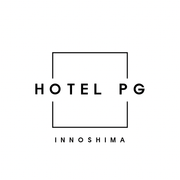
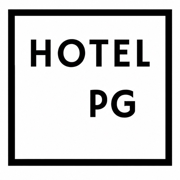
Replace Hotel PG branding assets

diff --git a/app/_assets/brand-logo-data.ts b/app/_assets/brand-logo-data.ts
@@ -1,0 +1,1 @@
[1 lines of base64/hex data omitted]

diff --git a/components/Header.tsx b/components/Header.tsx
@@ -6,6 +6,7 @@ import { usePathname } from 'next/navigation';
 import { Menu, X } from 'lucide-react';
 import { motion, AnimatePresence } from 'framer-motion';
 import LanguageSwitcher from './LanguageSwitcher';
+import BrandLogo from './BrandLogo';
 
 /** デスクトップの横並びナビに出す主要項目（厳選）。残りはメニューに収納。
  *  page: true は別ページへのリンク（/blog など）、それ以外はトップ内のセクション(#xxx)。 */
@@ -90,11 +91,10 @@ const Header: React.FC = () => {
                 handleNavClick('#home');
               }
             }}
-            className={`font-display text-[13px] sm:text-sm tracking-[0.25em] transition-colors shrink-0 ${
-              showTransparent ? 'text-white/95' : 'text-[#1a1a1a]'
-            }`}
+            className="shrink-0"
+            aria-label="HOTEL PG トップページ"
           >
-            HOTEL PG
+            <BrandLogo className="h-8 w-8 sm:h-9 sm:w-9" sizes="36px" priority />
           </Link>
 
           {/* デスクトップ: 横並びナビ */}
@@ -178,7 +178,7 @@ const Header: React.FC = () => {
             transition={{ duration: 0.2 }}
           >
             <div className="h-12 sm:h-14 flex items-center justify-between px-4 sm:px-6 max-w-6xl mx-auto border-b border-black/5">
-              <span className="font-display text-[13px] tracking-[0.25em] text-[#1a1a1a]">HOTEL PG</span>
+              <BrandLogo className="h-8 w-8" sizes="32px" />
               <button type="button" onClick={() => setIsMenuOpen(false)} aria-label="閉じる">
                 <X size={20} strokeWidth={1.5} className="text-[#1a1a1a]" />
               </button>

diff --git a/components/NewsImage.tsx b/components/NewsImage.tsx
@@ -1,6 +1,7 @@
 'use client';
 
 import { useState } from 'react';
+import BrandLogo from './BrandLogo';
 
 export default function NewsImage({ src, alt = '' }: { src?: string; alt?: string; sizes?: string }) {
   const [failedSrc, setFailedSrc] = useState<string | null>(null);
@@ -8,7 +9,7 @@ export default function NewsImage({ src, alt = '' }: { src?: string; alt?: strin
     <div className="relative aspect-[4/3] w-full overflow-hidden bg-white">
       {src && failedSrc !== src ? <img src={src} alt={alt} loading="lazy" onError={() => setFailedSrc(src)} className="h-full w-full object-cover transition-transform duration-300 motion-safe:group-hover:scale-[1.03]" /> : (
         <div className="flex h-full flex-col items-center justify-center border border-divider/50 text-textMain">
-          <span className="font-display text-3xl tracking-[0.25em]">HOTEL PG</span>
+          <BrandLogo className="h-24 w-24 sm:h-28 sm:w-28" sizes="112px" />
           <span className="mt-3 font-body text-[10px] tracking-[0.3em] text-textLight">INNOSHIMA, HIROSHIMA</span>
         </div>
       )}

diff --git a/app/opengraph-image.tsx b/app/opengraph-image.tsx
@@ -1,4 +1,5 @@
 import { ImageResponse } from 'next/og';
+import { BRAND_LOGO_DATA_URI } from './_assets/brand-logo-data';
 
 export const alt = 'HOTEL PG Innoshima — Shimanami Kaido';
 export const size = { width: 1200, height: 630 };
@@ -23,20 +24,17 @@ export default function OpenGraphImage() {
           color: '#ebe6dc',
         }}
       >
-        <div
-          style={{
-            fontSize: 86,
-            fontWeight: 600,
-            letterSpacing: '0.12em',
-            textTransform: 'uppercase' as const,
-          }}
-        >
-          HOTEL PG
-        </div>
+        <img
+          src={BRAND_LOGO_DATA_URI}
+          alt="HOTEL PG"
+          width={220}
+          height={220}
+          style={{ objectFit: 'contain' }}
+        />
         <div
           style={{
             fontSize: 34,
-            marginTop: 20,
+            marginTop: 24,
             letterSpacing: '0.42em',
             textTransform: 'uppercase' as const,
             opacity: 0.92,

diff --git a/components/Hero.tsx b/components/Hero.tsx
@@ -2,6 +2,7 @@ import React, { useState } from 'react';
 import Image from 'next/image';
 import { HERO_IMAGE } from '../constants';
 import { motion } from 'framer-motion';
+import BrandLogo from './BrandLogo';
 
 const fallbackImages = [
   'https://images.unsplash.com/photo-1506905925346-21bda4d32df4?q=80&w=2560&auto=format&fit=crop',
@@ -126,9 +127,7 @@ const Hero: React.FC = () => {
             animate={{ y: 0, opacity: 1 }}
             transition={{ duration: 1.2, delay: 1.5, ease: "easeOut" }}
           >
-            <p className="font-display text-xl sm:text-2xl md:text-3xl lg:text-4xl tracking-[0.2em] sm:tracking-[0.25em] text-white text-center font-normal drop-shadow-lg px-4">
-              HOTEL PG
-            </p>
+            <BrandLogo className="h-16 w-16 shadow-lg sm:h-20 sm:w-20" sizes="80px" priority />
           </motion.div>
         </div>
 

diff --git a/components/Footer.tsx b/components/Footer.tsx
@@ -1,6 +1,7 @@
 import React from 'react';
 import Link from 'next/link';
 import { CTA_IMAGE, INSTAGRAM_DM_URL } from '../constants';
+import BrandLogo from './BrandLogo';
 
 const Footer: React.FC = () => {
   return (
@@ -18,7 +19,7 @@ const Footer: React.FC = () => {
         {/* Footer Info - コンパクトに */}
         <div className="flex flex-col md:flex-row justify-between items-center md:items-end gap-8 md:gap-12">
           <div className="flex flex-col items-center md:items-start gap-1 text-center md:text-left">
-            <h3 className="font-display text-xl sm:text-2xl tracking-widest">HOTEL PG</h3>
+            <BrandLogo className="mb-2 h-16 w-16 sm:h-20 sm:w-20" sizes="80px" />
             <p className="text-xs text-white/60 font-serif">広島県尾道市因島土生町1896-8</p>
           </div>
 

diff --git a/components/BrandLogo.tsx b/components/BrandLogo.tsx
@@ -1,0 +1,30 @@
+import Image from 'next/image';
+
+type BrandLogoProps = {
+  className?: string;
+  sizes?: string;
+  priority?: boolean;
+  alt?: string;
+};
+
+const LOGO_PATH = '/images/brand/hotel-pg-logo.png';
+
+export default function BrandLogo({
+  className = 'h-10 w-10',
+  sizes = '40px',
+  priority = false,
+  alt = 'HOTEL PG',
+}: BrandLogoProps) {
+  return (
+    <span className={`relative block shrink-0 overflow-hidden bg-white ${className}`}>
+      <Image
+        src={LOGO_PATH}
+        alt={alt}
+        fill
+        sizes={sizes}
+        className="object-contain"
+        priority={priority}
+      />
+    </span>
+  );
+}

diff --git a/app/layout.tsx b/app/layout.tsx
@@ -24,7 +24,7 @@ import './globals.css';
 
 /** GA4 測定ID（環境変数で上書き可能） */
 const GA_MEASUREMENT_ID = process.env.NEXT_PUBLIC_GA_MEASUREMENT_ID ?? 'G-R5DGPBMER4';
-const ICON_VERSION = '2026-04-17-1';
+const ICON_VERSION = '2026-11-17-1';
 
 const notoSansJP = Noto_Sans_JP({
   subsets: ['latin'],
